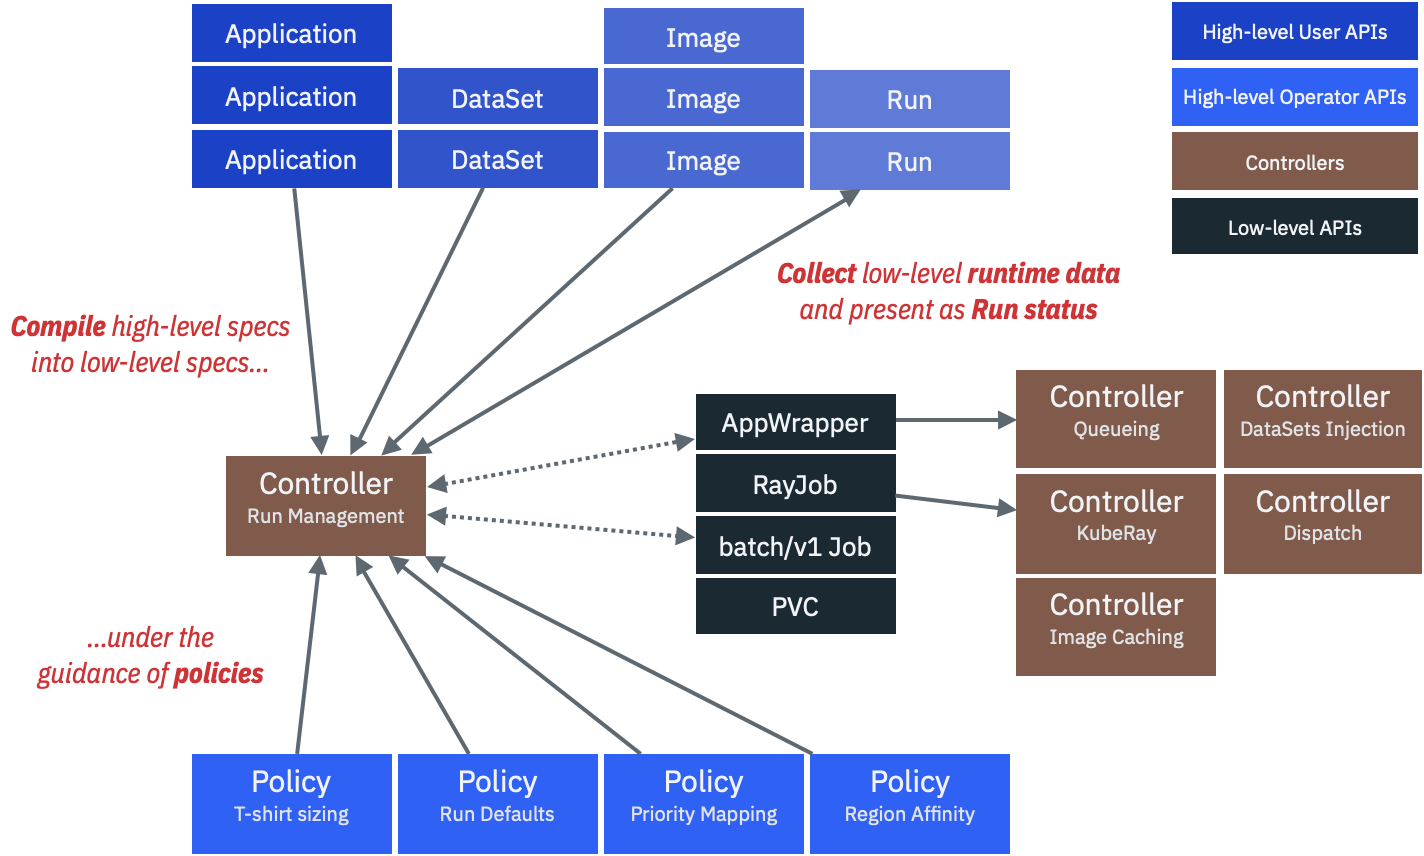
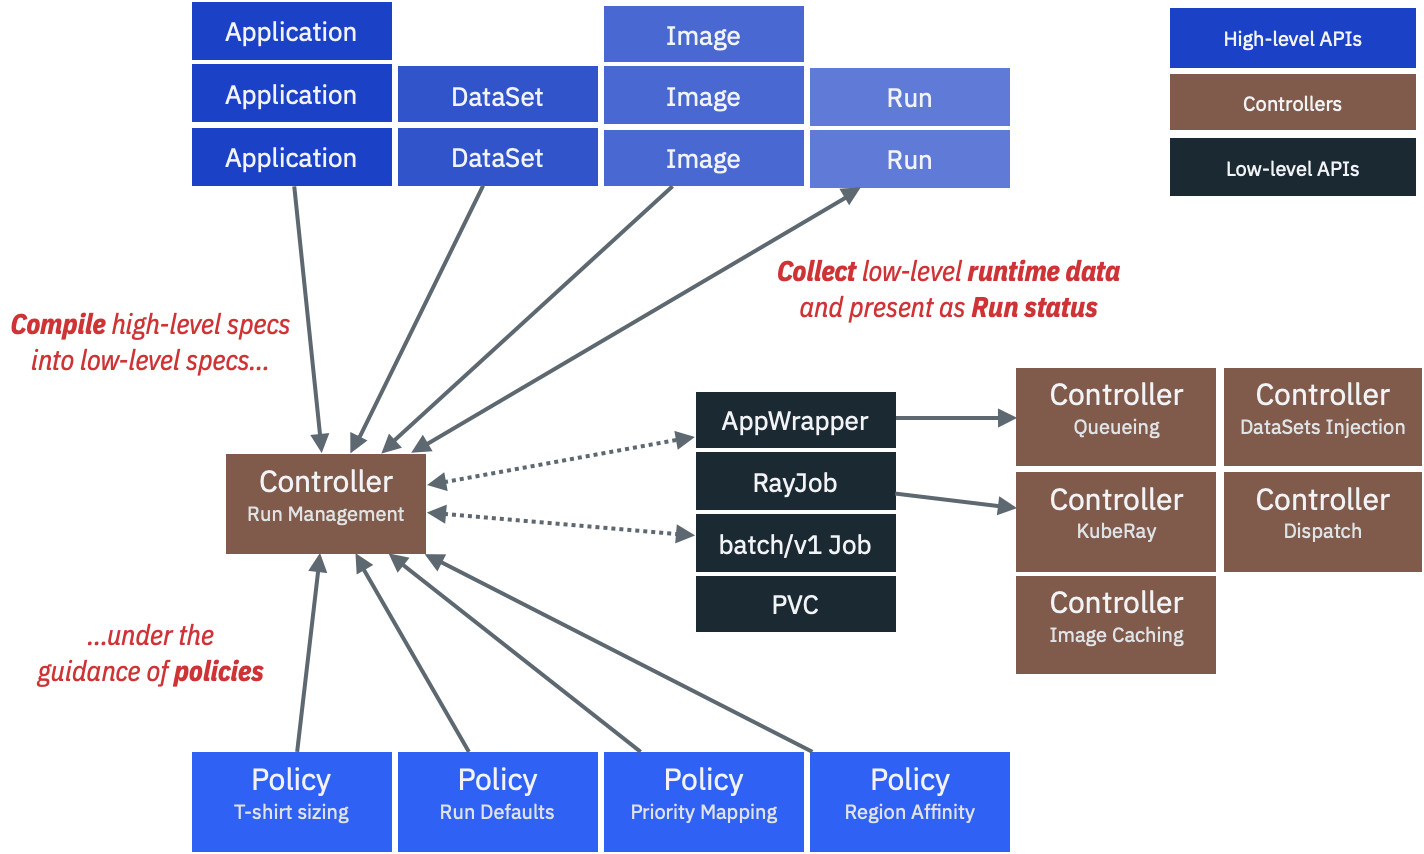
doc: adjust readme wording to use 'high level' terms from diagram

diff --git a/README.md b/README.md
@@ -2,29 +2,19 @@
 
 [![Build Status](https://travis.ibm.com/cloud-computer/codeflare-platform.svg?token=q3a78CA7yxKpNpK2nBqK&branch=main)](https://travis.ibm.com/cloud-computer/codeflare-platform)
 
-## The Big Picture
-
 The Codeflare Platform helps users and operators with running
 large-scale jobs on a multi-tenant Kubernetes cluster. It consists of
-a set of Kubernetes [**resource types**](#resource-types) managed by a
+a set of high-level [**resource types**](#resource-types) managed by a
 collection of Kubernetes **controllers** that operate under a defined
-set of [**policies**](#policy-types).
+set of high-level [**policies**](#policy-types).
 
 <img src="docs/codeflare-platform-architecture.png" alt="CodeFlare Architecture" align="right" width="450">
 
-Architecturally, the CodeFlare Platform is a [Helm
-chart](https://helm.sh). Via [Helm
-dependencies](https://helm.sh/docs/helm/helm_dependency/), you can
-incorporate a custom platform. You may include your own set of
-applications, datasets, images, and policies to shape an experience
-for your users. It is relatively lightweight, and runs fine in
-[Kind](#local-development-using-kind) on most laptops.
-
 <a name="resource-types">
 
-### How the Platform Helps with Defining and Running Jobs
+## High-level Resource API
 
-- **The Applications**: the Platform allows application owners to
+- **Applications**: the Platform allows application owners to
   capture what it takes to fire off run of their apps; e.g. base
   image, minimal resource requirements, and the schema of its command
   line. Sizing constraints are expressed in terms of "tee-shirt
@@ -32,12 +22,12 @@ for your users. It is relatively lightweight, and runs fine in
   Application.yaml](watsonx_ai/charts/applications/templates/examples/ray/qiskit.yaml)
   **|** [Example Torch
   Application.yaml](watsonx_ai/charts/applications/templates/examples/torch/lightning.yaml)
-- **The DataSets**: application owners may associate one or more input
+- **DataSets**: application owners may associate one or more input
   data sets with their application specification. The Platform takes
   care of managing all of the Kubernetes details (volumes, mounts, claims,
   etc.) [Example
   DataSet.yaml](https://github.ibm.com/nickm/codeflare-platform/blob/rm/tests/templates/datasets/s3-test.yaml)
-- **The Jobs/Runs**: an application user points to the Application
+- **Jobs/Runs**: an application user points to the Application
   resource they wish to execute, optionally overriding application
   defaults such as command line options. [Example Ray
   Run.yaml](tests/runs/watsonx_ai/ray/qiskit.yaml) **|** [Example
@@ -46,7 +36,7 @@ for your users. It is relatively lightweight, and runs fine in
 
 <a name="policy-types">
 
-### How the Platform Helps with Defining Policies
+## High-level Policy API
 
 - **RunSizeConfiguration**: instances of this kind allow admins to
   define a mapping from tee shirt sizes to physical size constraints
@@ -67,6 +57,14 @@ alphabetical order):
 - [TorchX](https://pytorch.org/torchx/latest/)
 
 ## Getting Started
+
+Architecturally, the CodeFlare Platform is a [Helm
+chart](https://helm.sh). Via [Helm
+dependencies](https://helm.sh/docs/helm/helm_dependency/), you can
+incorporate a custom platform. You may include your own set of
+applications, datasets, images, and policies to shape an experience
+for your users. It is relatively lightweight, and runs fine in
+[Kind](#local-development-using-kind) on most laptops.
 
 To get started with contributing the Platform, see the
 [Platform Developer Documentation](docs/development.md).
